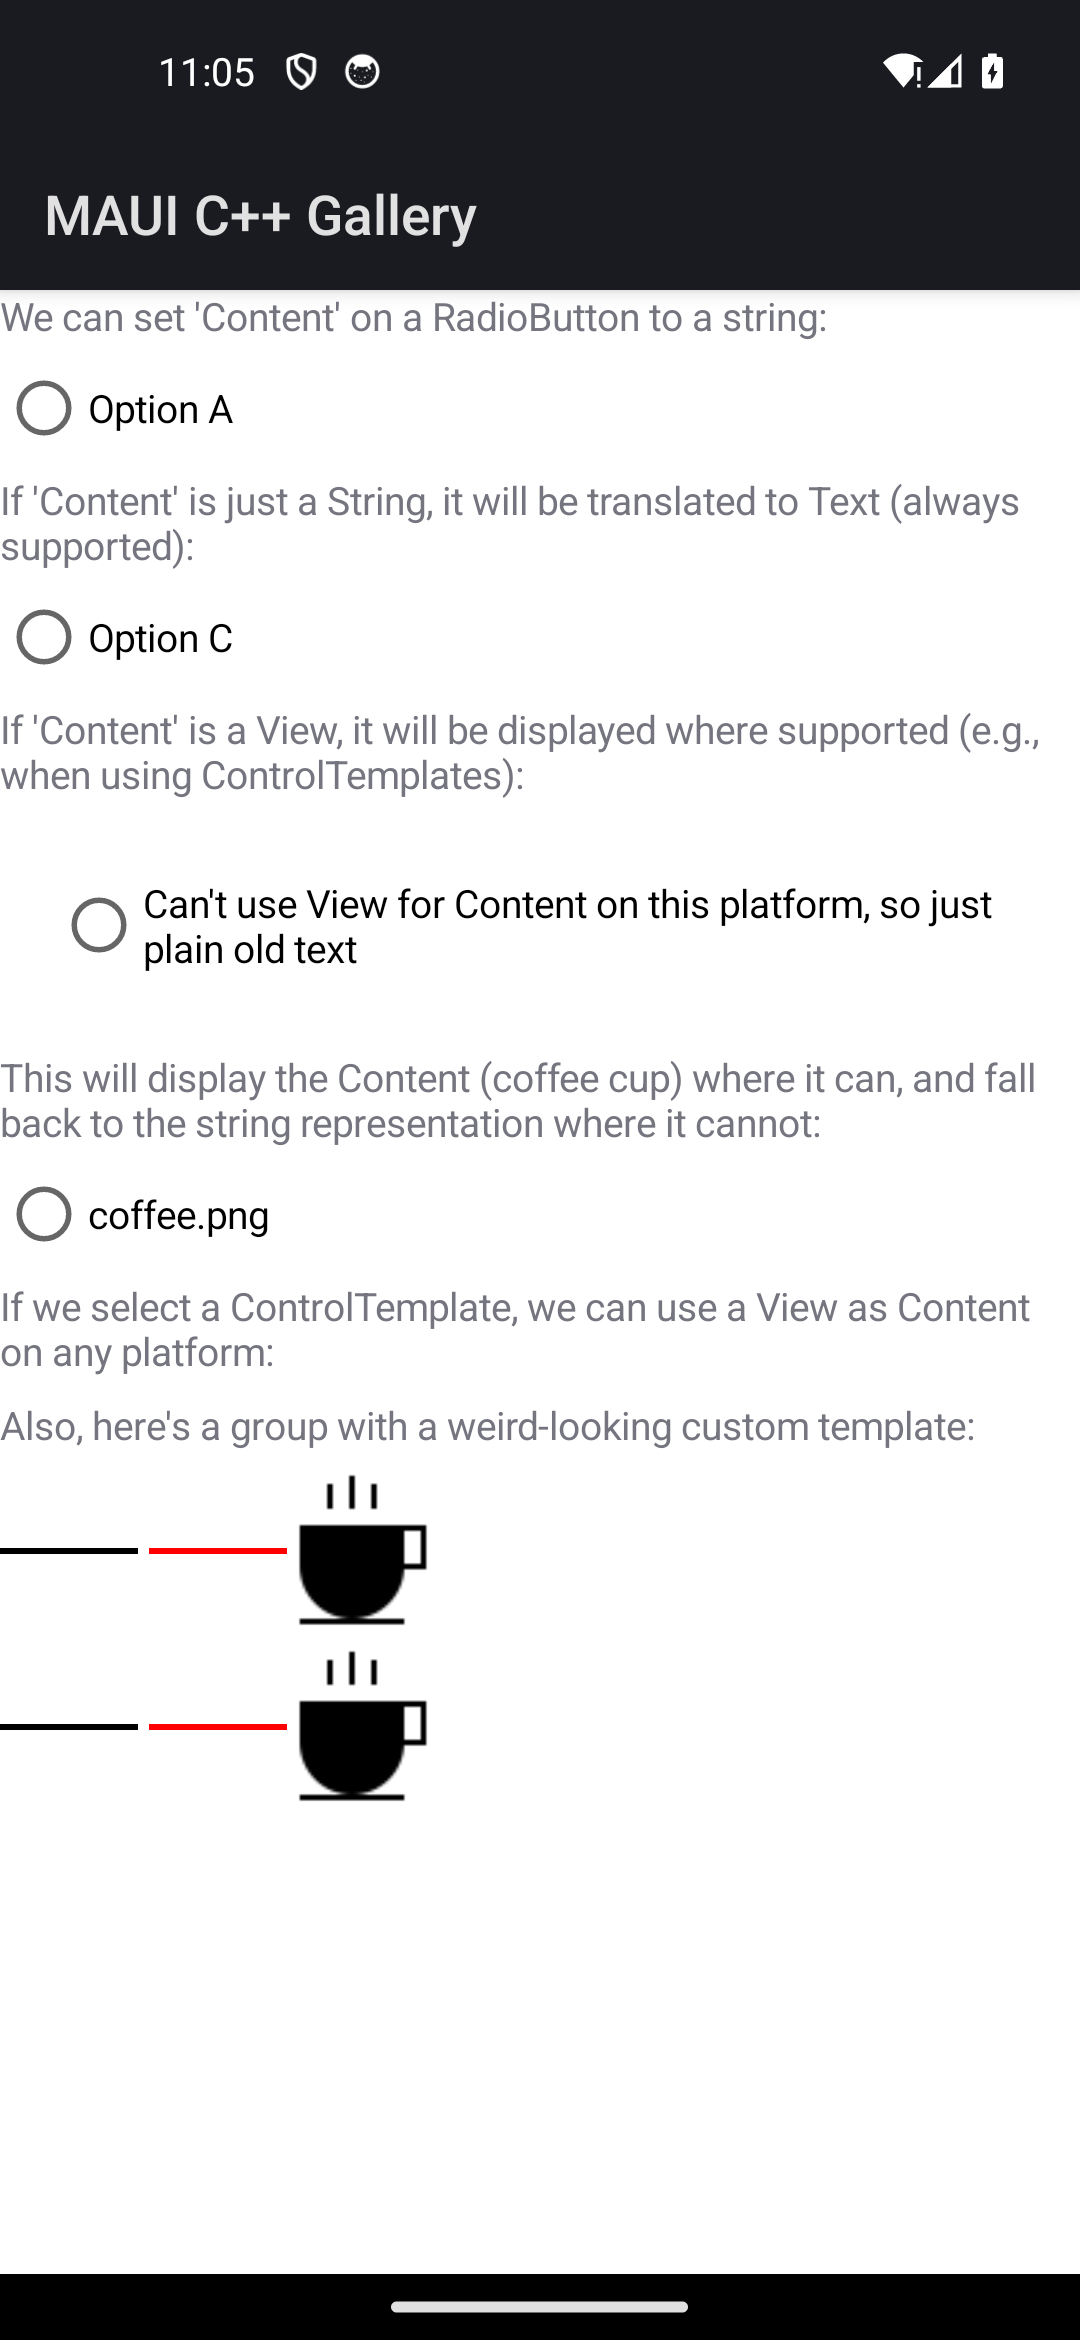
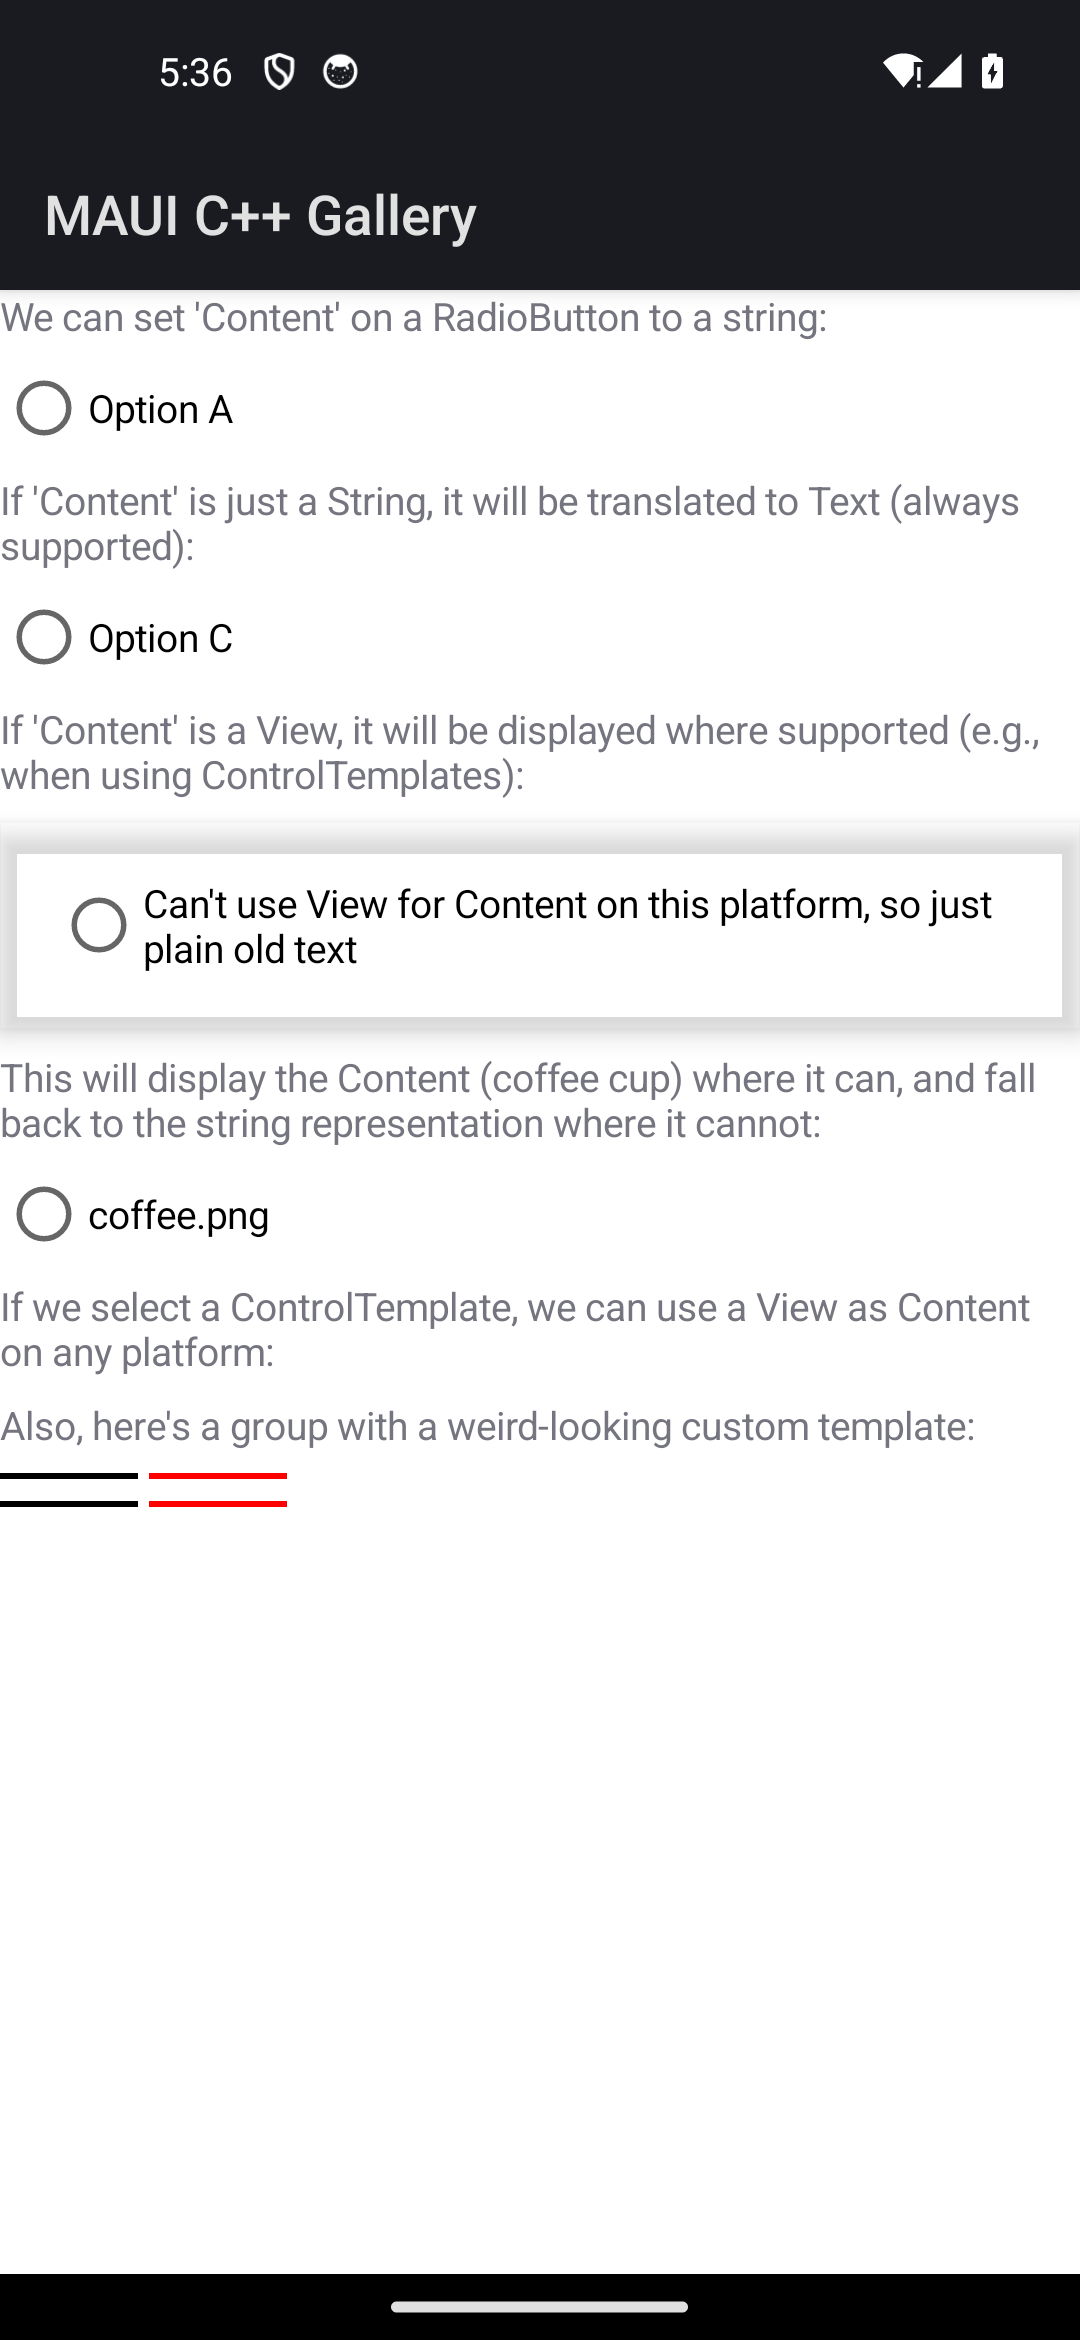
fix(android parity): radio ControlTemplate pages match MAUI render (2 REDs → match)
Two RadioButton-ControlTemplate gallery pages diverged from the real .NET MAUI
Android render. Both were gallery-page source-fidelity gaps, not platform bugs.
Derived from the C# oracle (src/Controls/samples/.../RadioButtonGalleries/*.xaml,
read-only) and confirmed against both the Android and iOS MAUI reference renders.

radio_button_content — the "weird custom template" group rendered a large black
COFFEE-CUP glyph MAUI never shows. Root cause: the XAML packs
<Image Source="coffee.png"/> into the ControlTemplate's ContentPresenter, but the
Controls.Sample project NEVER bundles a coffee.png asset (absent everywhere under
src/Controls/samples), so on EVERY MAUI platform (iOS + Android reference both
verified) that Image renders EMPTY — only the black/red line pair shows. The port
bundles its own coffee.png and loaded it, inventing content MAUI has no asset for.
Fix: leave the weird-template presenter empty, reproducing MAUI's empty-image
render exactly (parity policy §1). Dropped the now-unused image includes + member.

radio_template_from_style — three calendar tiles centered mid-screen with wide
margins and a FILLED blue dot; MAUI is flush-left with an empty ring. Root cause:
the port omitted three XAML alignments/states from the CalendarRadioTemplate:
  • Border HorizontalOptions/VerticalOptions="Start" (tile hugs top-left, not center)
  • inner indicator Grid HorizontalOptions="End" VerticalOptions="Start" (ring pinned
    to the tile's top-right corner, not centered)
[…]

diff --git a/port/cpp/examples/gallery/pages/radio_button_content_page.hpp b/port/cpp/examples/gallery/pages/radio_button_content_page.hpp
@@ -18,15 +18,19 @@
 //      fallback the unsupported platforms use, with an honest note about the deferred View path.
 //   3. Content as a View under a ControlTemplate — "we can use a View as Content on any platform". This
 //      is the real machinery the page is showing off: a ControlTemplate hosts a content_presenter that
-//      packs the developer Content (the coffee image), so the View renders regardless of platform. The
-//      radio_button itself can't yet take a control_template (deferred), but content_view — the sibling
-//      templated_view over the SAME content_presenter seam — can, so the port demonstrates the
-//      View-as-Content-through-a-template concept with a content_view carrying a custom ControlTemplate
-//      (a horizontal stack: two cross "Line" stand-ins + a content_presenter packing the coffee image),
-//      faithfully reproducing the XAML's "weird-looking custom template" group. The Checked/Unchecked
-//      VisualState that toggles the CheckedIndicator opacity is part of the radio_button's own visual
-//      state machine; here the template is hosted on a content_view (not a radio), so the live
-//      checked-state opacity flip is noted as deferred rather than invented.
+//      packs the developer Content, so the View renders regardless of platform. The radio_button itself
+//      can't yet take a control_template (deferred), but content_view — the sibling templated_view over
+//      the SAME content_presenter seam — can, so the port demonstrates the View-as-Content-through-a-
+//      template concept with a content_view carrying a custom ControlTemplate (a horizontal stack: two
+//      cross "Line" stand-ins + a content_presenter), faithfully reproducing the XAML's "weird-looking
+//      custom template" group. The XAML packs an <Image Source="coffee.png"/> into that presenter, but the
+//      Controls.Sample project never bundles a coffee.png asset (it is absent everywhere under
+//      src/Controls/samples), so on EVERY MAUI platform the presenter's Image renders EMPTY — the real
+//      MAUI reference (iOS + Android) shows only the two lines, no cup. The port matches that ground truth
+//      by leaving the presenter empty (see add_weird_card). The Checked/Unchecked VisualState that toggles
+//      the CheckedIndicator opacity is part of the radio_button's own visual state machine; here the
+//      template is hosted on a content_view (not a radio), so the live checked-state opacity flip is noted
+//      as deferred rather than invented.
 //
 // The page OWNS its whole element tree (the sample_app pattern). It is backend-agnostic — a sample main
 // attaches handlers bottom-up via the hosting layer and hosts page() in a window; the headless/apple/
@@ -47,10 +51,8 @@
 #include "maui/controls/box_view.hpp"
 #include "maui/controls/content_page.hpp"
 #include "maui/controls/content_view.hpp"
-#include "maui/controls/file_image_source.hpp"
 #include "maui/controls/frame.hpp"
 #include "maui/controls/horizontal_stack_layout.hpp"
-#include "maui/controls/image.hpp"
 #include "maui/controls/label.hpp"
 #include "maui/controls/radio_button.hpp"
 #include "maui/controls/scroll_view.hpp"
@@ -197,18 +199,23 @@ namespace maui::samples
 
     private:
         // A "weird custom template" card: a content_view whose ControlTemplate is weird_radio_template and
-        // whose Content is a coffee image (the presenter packs it). Applying set_control_template runs the
-        // same template_utilities::on_control_template_changed the C# ControlTemplate change callback runs.
+        // whose Content the presenter packs. Applying set_control_template runs the same
+        // template_utilities::on_control_template_changed the C# ControlTemplate change callback runs.
+        //
+        // MAUI-RENDER FIDELITY: the XAML packs <Image Source="coffee.png"/> into the ContentPresenter, but
+        // the Controls.Sample project NEVER bundles a coffee.png asset (it exists nowhere under
+        // src/Controls/samples). So on EVERY MAUI platform the presenter's Image resolves to nothing and
+        // renders EMPTY — the real MAUI render (iOS + Android reference) shows ONLY the black/red line pair,
+        // no cup. The port must match that ground truth (parity policy §1): it therefore packs NO content
+        // into the presenter, reproducing MAUI's empty-image render exactly. (Packing the port's own bundled
+        // coffee.png here produced a large black cup MAUI never shows — the RED parity divergence this fixes.)
         void add_weird_card()
         {
             auto card = std::make_shared<maui::controls::content_view>();
             card->set_control_template(maui::controls::control_template::of<weird_radio_template>());
-
-            auto coffee = std::make_shared<maui::controls::image>();
-            coffee->set_source(maui::controls::image_source::from_file("coffee.png"));
-            card->set_content(coffee);
-
-            coffee_images_.push_back(std::move(coffee));
+            // No Content: MAUI's coffee.png asset is absent, so its ContentPresenter renders empty. Leaving
+            // the presenter empty reproduces that render; the line-pair (button + checked indicator) is the
+            // template's visible chrome, matching the MAUI reference.
             weird_cards_.push_back(std::move(card));
         }
 
@@ -228,8 +235,8 @@ namespace maui::samples
         maui::controls::label caption_template_;
         maui::controls::label caption_weird_;
 
-        // The two custom-template cards + the coffee images they co-own (kept alive + reachable).
+        // The two custom-template cards (each renders the two template bars; presenter empty, matching
+        // MAUI's absent-coffee.png render — see add_weird_card).
         std::vector<std::shared_ptr<maui::controls::content_view>> weird_cards_;
-        std::vector<std::shared_ptr<maui::controls::image>> coffee_images_;
     };
 } // namespace maui::samples

diff --git a/port/cpp/examples/gallery/pages/radio_template_from_style_page.hpp b/port/cpp/examples/gallery/pages/radio_template_from_style_page.hpp
@@ -69,37 +69,52 @@ namespace maui::samples
         calendar_radio_template()
         {
             // <Border Stroke="#F3F2F1" BackgroundColor="#F3F2F1" HeightRequest="100" WidthRequest="100"
-            //         Padding="0">
+            //         HorizontalOptions="Start" VerticalOptions="Start" Padding="0">
             const maui::graphics::color tile_bg = maui::graphics::color::from_argb("#F3F2F1");
             set_background(std::make_shared<maui::graphics::solid_paint>(tile_bg));
             set_stroke(std::make_shared<maui::graphics::solid_paint>(tile_bg));
             set_width_request(100);
             set_height_request(100);
             set_padding(maui::core::thickness(0));
+            // HorizontalOptions/VerticalOptions="Start" (XAML line 11): the tile hugs the top-left of its
+            // slot rather than centering — the flush-left column MAUI renders.
+            set_horizontal_layout_alignment(maui::core::layout_alignment::start);
+            set_vertical_layout_alignment(maui::core::layout_alignment::start);
 
             // The outer <Grid Margin="4" WidthRequest="100" Padding="2">.
             tile_grid_.set_width_request(100);
             tile_grid_.set_padding(maui::core::thickness(2));
 
-            // The upper-right 18x18 indicator <Grid> with the two Ellipses.
+            // The upper-right 18x18 indicator <Grid HorizontalOptions="End" VerticalOptions="Start">
+            // holding the two Ellipses — pinned to the tile's top-right corner (XAML line 37).
             indicator_grid_.set_width_request(18);
             indicator_grid_.set_height_request(18);
+            indicator_grid_.set_horizontal_layout_alignment(maui::core::layout_alignment::end);
+            indicator_grid_.set_vertical_layout_alignment(maui::core::layout_alignment::start);
 
             // <Ellipse Stroke="Blue" WidthRequest="16" HeightRequest="16" StrokeThickness="0.5"
-            //          Fill="White"/> — the ring.
+            //          VerticalOptions="Center" HorizontalOptions="Center" Fill="White"/> — the ring.
             ring_.set_stroke(std::make_shared<maui::graphics::solid_paint>(maui::graphics::colors::blue));
             ring_.set_stroke_thickness(0.5);
             ring_.set_fill(std::make_shared<maui::graphics::solid_paint>(maui::graphics::colors::white));
             ring_.set_width_request(16);
             ring_.set_height_request(16);
+            ring_.set_horizontal_layout_alignment(maui::core::layout_alignment::center);
+            ring_.set_vertical_layout_alignment(maui::core::layout_alignment::center);
 
-            // <Ellipse x:Name="Check" WidthRequest="8" HeightRequest="8" Fill="Blue"/> — the dot. In the
-            // XAML the Checked VisualState flips its Opacity 0→1; that state flip belongs to the
-            // radio_button visual-state machine and is noted as deferred here (this template is hosted on
-            // a content_view stand-in, not on a radio_button).
+            // <Ellipse x:Name="Check" WidthRequest="8" HeightRequest="8" Fill="Blue"
+            //          VerticalOptions="Center" HorizontalOptions="Center"/> — the dot. The XAML's Checked
+            // VisualState flips its Opacity 0→1; the DEFAULT (Unchecked) state the tiles render with sets
+            // Opacity 0, so MAUI shows only the empty blue ring on a fresh page (no filled dot). The port
+            // must render that same default: the Checked-state flip is the radio_button visual-state
+            // machine's job and stays deferred (this template is hosted on a content_view stand-in), so the
+            // dot is set to the unchecked-default Opacity 0 rather than left visible.
             check_.set_fill(std::make_shared<maui::graphics::solid_paint>(maui::graphics::colors::blue));
             check_.set_width_request(8);
             check_.set_height_request(8);
+            check_.set_horizontal_layout_alignment(maui::core::layout_alignment::center);
+            check_.set_vertical_layout_alignment(maui::core::layout_alignment::center);
+            check_.set_opacity(0.0); // Unchecked default (VisualState "Unchecked" → Check Opacity 0)
 
             indicator_grid_.add(ring_);
             indicator_grid_.add(check_);
@@ -176,6 +191,11 @@ namespace maui::samples
         void add_tile(const std::string& text)
         {
             auto tile = std::make_shared<maui::controls::content_view>();
+            // The XAML's HorizontalOptions="Start" lives on the template-root Border; on the port the stack
+            // arranges the outer content_view, so mirror the Start alignment onto the tile too — otherwise a
+            // Fill/Center content_view re-centers the 100pt tile mid-screen (the wide-margin bug).
+            tile->set_horizontal_layout_alignment(maui::core::layout_alignment::start);
+            tile->set_vertical_layout_alignment(maui::core::layout_alignment::start);
             tile->set_control_template(maui::controls::control_template::of<calendar_radio_template>());
 
             auto content = std::make_shared<maui::controls::label>();
